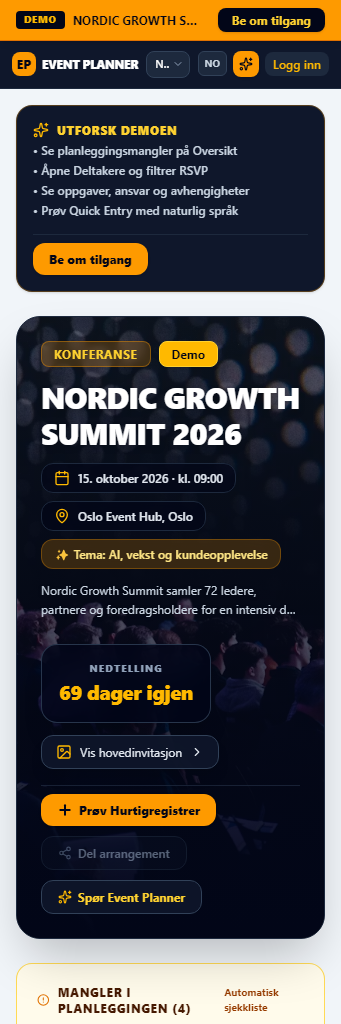
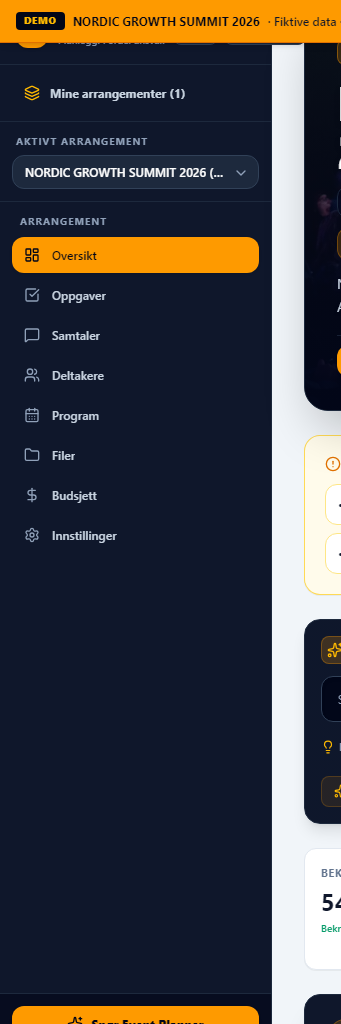
Oppdater Event Planner-screenshots fra demo med Samtaler, Budsjett og Event Readiness.
Nytt portrettutsnitt for /prosjekter og landscape hero for /event-planner. Cache-buster 20260808a.

diff --git a/src/app/lib/event-planner-brand.ts b/src/app/lib/event-planner-brand.ts
@@ -12,7 +12,7 @@ export const EVENT_PLANNER_DEMO_URL = `${EVENT_PLANNER_APP_URL}?demo=1`;
  * Cache-buster for prosjektbilder. Oppdater når nye skjermbilder fra demo er klare
  * (erstatt filene i public/images/ — samme filnavn og dimensjoner).
  */
-export const EVENT_PLANNER_IMAGE_VERSION = "20260807a";
+export const EVENT_PLANNER_IMAGE_VERSION = "20260808a";
 
 /**
  * Event Planner — porteføljesti og merkevare.
@@ -21,7 +21,8 @@ export const EVENT_PLANNER_IMAGE_VERSION = "20260807a";
  * - Oversikt (/prosjekter): `public/images/event-planner-hjemmeside.png` — 341×1024 px (1:3)
  * - Detalj (/event-planner): `public/images/event-planner-hero.png` — 1800×600 px (3:1 landscape)
  *
- * Innhold: skjermbilde fra offentlig read-only demo (Nordic Growth Summit 2026, fiktive data).
+ * Innhold: skjermbilde fra offentlig skrivebeskyttet demo — venstremeny (Samtaler, Budsjett),
+ * arrangementshero og Arrangementsklarhet / Oversikt med Budsjett & økonomi.
  */
 export const EVENT_PLANNER_PILOT_PATH = "/event-planner";
 

diff --git a/src/app/data/projects-v2/overview-image-audit.ts b/src/app/data/projects-v2/overview-image-audit.ts
@@ -166,7 +166,7 @@ export const overviewImageAudit: OverviewImageAuditEntry[] = [
   },
   {
     projectId: "event-planner-2026-08",
-    overviewImage: "/images/event-planner-hjemmeside.png?v=20260807a",
+    overviewImage: "/images/event-planner-hjemmeside.png?v=20260808a",
     aspectNote: "Vertikalt 1:3 oversiktsbilde — Nordic Growth Summit 2026 public demo (fiktive data)",
     fit: "contain",
     needsNewOverviewImage: false,

diff --git a/src/app/data/projects-v2/detail-hero-audit.ts b/src/app/data/projects-v2/detail-hero-audit.ts
@@ -147,7 +147,7 @@ export const detailHeroAudit: DetailHeroAuditEntry[] = [
   {
     route: "/event-planner",
     projectId: "event-planner-2026-08",
-    heroImage: "/images/event-planner-hero.png?v=20260807a",
+    heroImage: "/images/event-planner-hero.png?v=20260808a",
     aspectNote: "Horisontalt banner — 3:1 landscape for detaljside",
     objectPosition: "center",
     fit: "contain",
